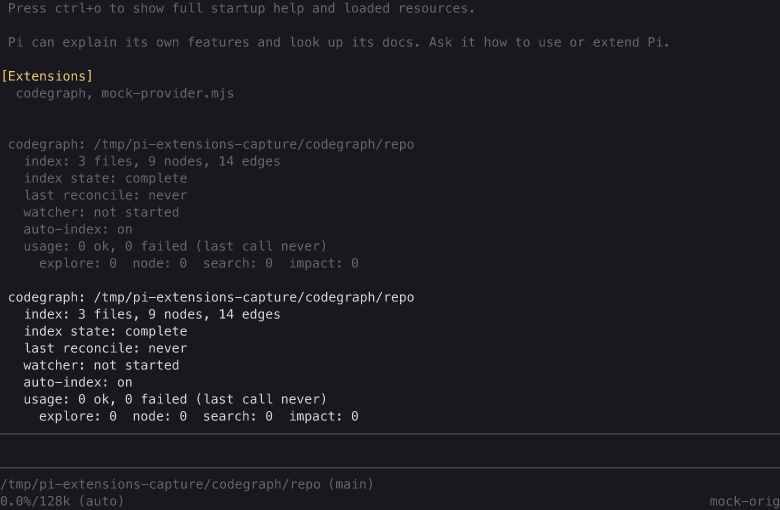
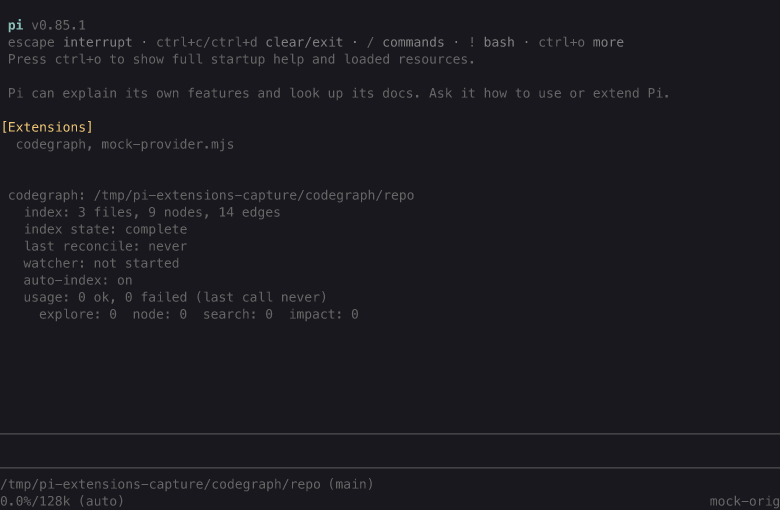
codegraph: show the status block once, not in both the widget and the notification (#94)
* codegraph: report the status block once, as the info notification

The /codegraph status path rendered the same lines in two surfaces - a
persistent widget above the input and an info notification in the
transcript. The notification is the single surface now; the widget stays
empty on status, and init/seed/uninit keep clearing it so no stale
widget survives a rebuild.

Fixes #80.

* codegraph: re-render the docs status shot, now a single block

The shot shows the status block once, as the info notification in the
transcript, with no widget copy above the input. The capture pipeline is
the one PR #79 adds; every other capture re-renders byte-identical.

diff --git a/tests/codegraph/tools.test.ts b/tests/codegraph/tools.test.ts
@@ -637,7 +637,21 @@ describe("/codegraph command", () => {
     const joined = ui.notifications.map(([, m]) => m).join("\n");
     expect(joined).toContain("codegraph: " + fixture.main);
     expect(joined).toContain("index: none yet");
-    expect(ui.widgets.some(([key]) => key === "codegraph")).toBe(true);
+  });
+
+  it("status shows the block once: the notification, not a widget", async () => {
+    // The status block used to render twice - a persistent widget above the
+    // input and an info notification in the transcript. The notification is
+    // the single surface, so status must never set the codegraph widget.
+    const h = makeHarness(newSession(), fixture.main);
+    await h.session.ensureReady(fixture.main);
+    const ui = freshUi();
+    await h.commands.get("codegraph")!.handler("", makeCtx(fixture.main, ui));
+    expect(ui.widgets).toHaveLength(0);
+    const statusNotes = ui.notifications.filter(([, m]) =>
+      m.includes("index:"),
+    );
+    expect(statusNotes).toHaveLength(1);
   });
 
   it("status reports usage counts and the last failure", async () => {
@@ -758,6 +772,9 @@ describe("/codegraph command", () => {
     await h.commands.get("codegraph")!.handler("uninit", makeCtx(fixture.main, acceptUi));
     expect(acceptUi.confirms).toBe(1);
     expect(acceptUi.notifications.some(([, m]) => m.includes("removed index"))).toBe(true);
+    // The index-mutating verb clears the codegraph widget, so no stale
+    // widget survives a rebuild or an uninit.
+    expect(acceptUi.widgets).toContainEqual(["codegraph", undefined]);
     // The index is gone and a build is possible again: the note returns in its
     // "none" state, which is the promise the tools can keep.
     expect(h.session.indexStateFor(fixture.main)).toBe("none");

diff --git a/extensions/codegraph/handlers.ts b/extensions/codegraph/handlers.ts
@@ -859,11 +859,12 @@ export function registerCommand(
       try {
         if (verb === "status" || verb === "") {
           // `status <path>` selects a named root by the parameter's path
-          // rule (spec 0009); no argument is the session root.
+          // rule (spec 0009); no argument is the session root. The block is
+          // reported once, as the info notification the other verbs use; the
+          // widget stays empty so the reader sees no stacked duplicate.
           const target = bare ? undefined : parts.slice(1).join(" ") || undefined;
           const lines = statusLines(session, ctx, target);
           if (bare) lines.push(...namedRootLines(session));
-          ui.setWidget?.("codegraph", lines);
           ui.notify("info", lines.join("\n"));
           return;
         }
